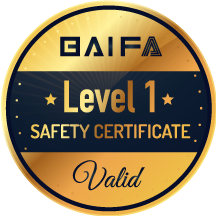
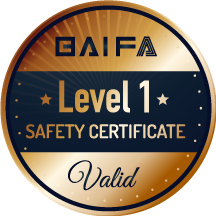
chore: 🤖 change certificate img

diff --git a/src/components/audit_report/audit_report.tsx b/src/components/audit_report/audit_report.tsx
@@ -28,7 +28,7 @@ const AuditReport = () => {
         </div>
 
         <div className="mb-5 flex w-full justify-center lg:-mt-20 lg:mb-20 lg:justify-end xl:pr-1/10">
-          <Image src={`/certificate/1-v@2x.png`} alt="certificate" width={60} height={60} />
+          <Image src={`/certificate/3-v@2x.png`} alt="certificate" width={60} height={60} />
         </div>
 
         <div className="flex w-full justify-around">
